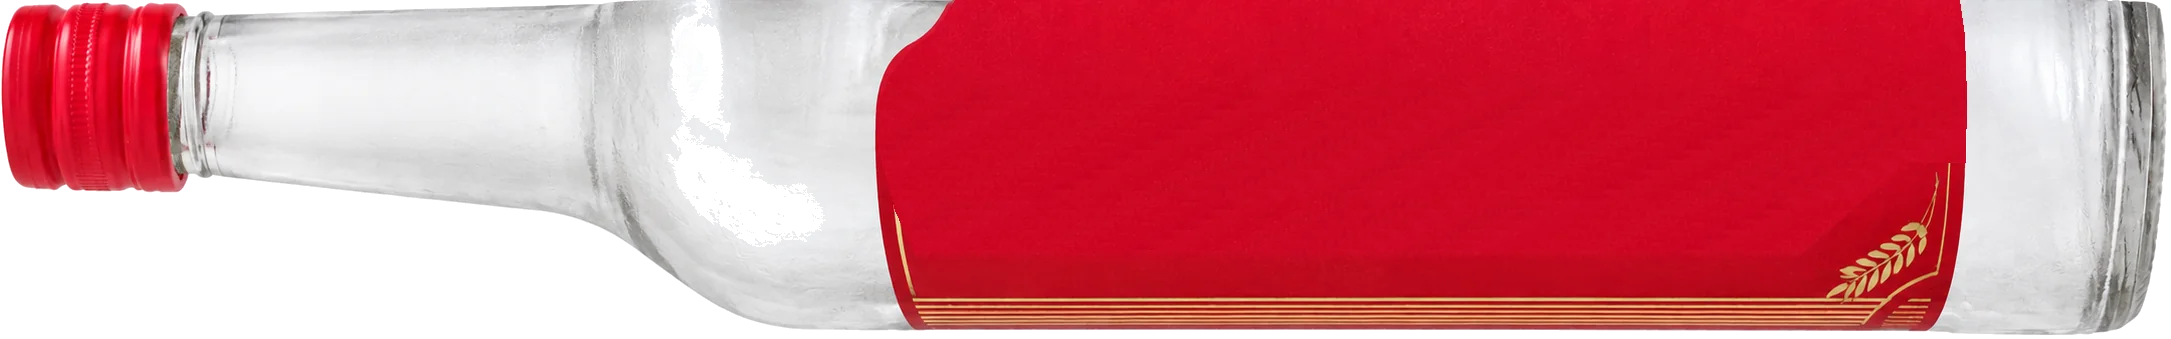
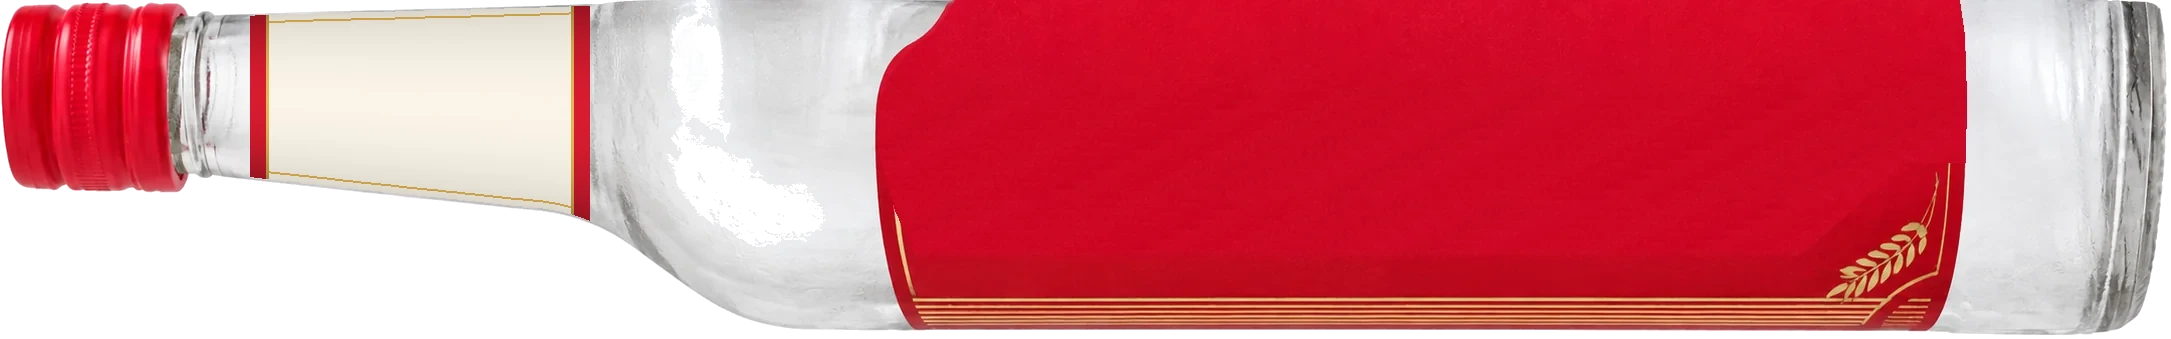
Half bottle: cream neck label with IANA LEVMAN
Claude-Session: https://claude.ai/code/session_01FoJXEt7mBcfZua3bz27njN

Changed region(s): [[0.0926, 0.0, 0.2778, 0.649]]

diff --git a/src/styles.css b/src/styles.css
@@ -254,9 +254,9 @@
 .back-to-header:focus-visible { outline: 2px solid #f6e7c8; outline-offset: 4px; }
 .back-to-header svg { width: 26px; height: 26px; stroke-width: 2.5; }
 .bottle-neck-name {
-  position: absolute; left: 8.5%; top: 29%; width: 21%; transform: translateY(-50%);
+  position: absolute; left: 12.6%; top: 28%; width: 13.6%; transform: translateY(-50%);
   font-family: var(--font-bottle-label); color: var(--bottle-name-ink);
-  font-weight: 800; font-size: 24px; line-height: 1.05; text-align: center; letter-spacing: 0; text-transform: uppercase;
+  font-weight: 800; font-size: clamp(11px, 1.7vw, 20px); line-height: 1.05; text-align: center; letter-spacing: 0.02em; text-transform: uppercase;
   transition: top 700ms ease-in-out, left 700ms ease-in-out, width 700ms ease-in-out, font-size 700ms ease-in-out;
 }
 .bottle-label-nav {
@@ -311,7 +311,7 @@
 @media (max-width: 767px) {
   /* Keep the half bottle's real proportions on phones; the red label carries only the burger. */
   .bottle-header { height: calc(100vw * 339 / 2171); }
-  .bottle-neck-name { left: 8.5%; top: 29%; width: 21%; font-size: clamp(9px, 2.9vw, 14px); text-transform: none; }
+  .bottle-neck-name { left: 12.6%; top: 28%; width: 13.6%; font-size: clamp(8px, 2.5vw, 13px); }
   .bottle-label-nav { display: none; }
   .bottle-burger {
     display: inline-flex; position: absolute; left: 40%; right: 12%; top: 5%; height: 78%; width: auto;
